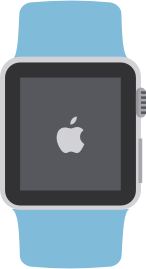
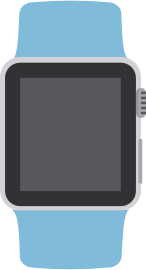
pings, pongs & updated screenshot

Changed region(s): [[0.3836, 0.4164, 0.5753, 0.5948], [0.137, 0.7435, 0.8219, 0.7732]]

diff --git a/demo/WatchImage.js b/demo/WatchImage.js
@@ -1,27 +1,70 @@
 import React, {
   Image,
   Component,
-  StyleSheet
+  StyleSheet,
+  View,
+  Text
 } from 'react-native'
 
 import {ROW_MARGIN} from './constants'
 
 export default class WatchImage extends Component {
+  static defaultProps = {
+    pings: 0
+  };
+
   render () {
     return (
-      <Image
-        style={styles.image}
-        source={{uri: 'Watch'}}
-        {...this.props}
-      />
+      <View style={styles.container}>
+        <Image
+          style={styles.image}
+          source={{uri: 'Watch'}}
+          {...this.props}
+        />
+        <View style={styles.pings}>
+          <Text style={styles.numPingsText}>{this.props.pings}</Text>
+          <Text style={styles.pingsText}>PINGS</Text>
+        </View>
+
+      </View>
     )
   }
 }
 
+const imageSize = {
+  width:  146,
+  height: 269,
+}
+
 const styles = StyleSheet.create({
-  image: {
-    width:        146,
-    height:       269,
-    marginBottom: ROW_MARGIN
+  image:        {
+    ...imageSize,
+    position: 'absolute',
+    top:      0,
+    left:     0
+  },
+  pings:        {
+    backgroundColor: 'transparent',
+  },
+  numPingsText: {
+    color:        'white',
+    fontWeight:   'bold',
+    fontSize:     36,
+    textAlign:    'center',
+    position:     'relative',
+    right:        1
+  },
+  pingsText:    {
+    color:      'white',
+    fontWeight: 'bold',
+    fontSize:   11,
+    textAlign:  'center'
+  },
+  container:    {
+    ...imageSize,
+    position:       'relative',
+    alignItems:     'center',
+    justifyContent: 'center',
+    marginBottom:   ROW_MARGIN
   }
 })

diff --git a/ios/watch Extension/InterfaceController.swift b/ios/watch Extension/InterfaceController.swift
@@ -10,9 +10,13 @@ import WatchKit
 import WatchConnectivity
 import Foundation
 
+
+
 class InterfaceController: WKInterfaceController, WCSessionDelegate {
   @IBOutlet weak var label: WKInterfaceLabel!
+  @IBOutlet weak var pongs: WKInterfaceLabel!
   @IBOutlet weak var image: WKInterfaceImage!
+  var numPongs: Int = 0
 
   var session: WCSession?
   
@@ -82,10 +86,18 @@ class InterfaceController: WKInterfaceController, WCSessionDelegate {
     print("did receive user info", userInfo)
     // Send the bullshit user info back to the device just to demonstrate it works ;)
     session.transferUserInfo(userInfo)
-    print("sending ping")
+    self.sendPing(session)
+
+  }
+  
+  func sendPing(session: WCSession) {
+    print("Sending ping")
     session.sendMessage(["message": "ping"], replyHandler: { (dict) in
-      print("pong received", dict)
-      }, errorHandler: nil)
+      print("Received pong")
+      self.numPongs += 1
+      self.pongs.setText(String(format: "%i Pongs", self.numPongs))
+      self.sendPing(session)
+    }, errorHandler: nil)
   }
   
   ////////////////////////////////////////////////////////////////////////////////

diff --git a/demo/Root.js b/demo/Root.js
@@ -24,7 +24,8 @@ export default class Root extends Component {
       loading:    false,
       text:       '',
       watchState: watch.WatchState.Inactive,
-      fileAPI:    true
+      fileAPI:    true,
+      pings:      0
     }
   }
 
@@ -192,7 +193,7 @@ export default class Root extends Component {
   render () {
     return (
       <View style={styles.container}>
-        <WatchImage/>
+        <WatchImage pings={this.state.pings}/>
         <View>
           <ReachabilityText
             watchState={this.state.watchState}
@@ -218,12 +219,12 @@ export default class Root extends Component {
     )
   }
 
-
   receiveMessage (err, message, replyHandler) {
     if (err) console.error(`Error receiving message`, err)
     else {
       console.log('app received message', message)
       if (message.message === 'ping') {
+        this.setState({pings: this.state.pings + 1})
         if (replyHandler) {
           replyHandler({message: 'pong'})
         }
